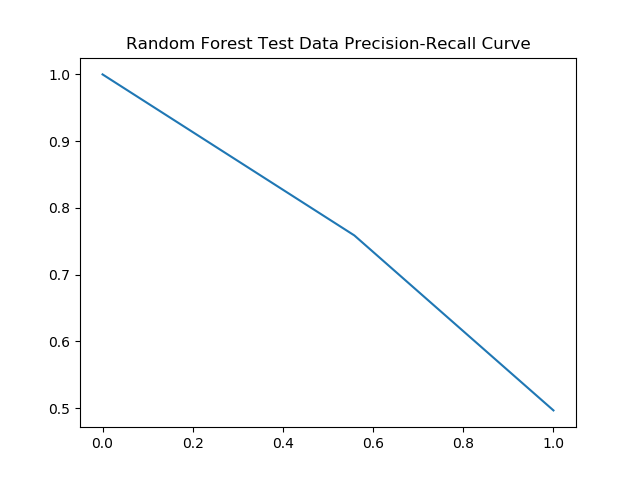
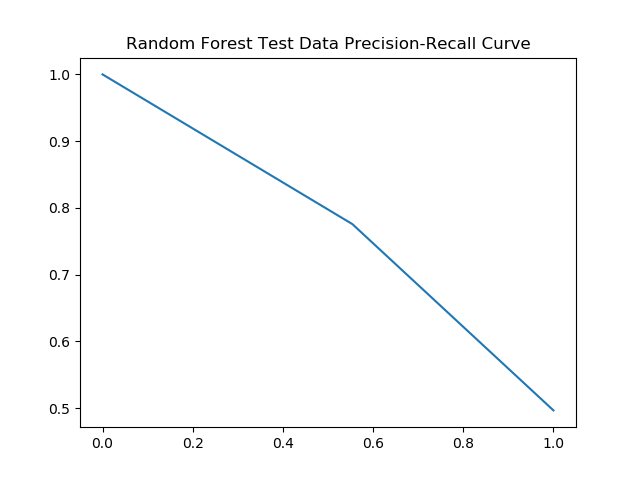
Shuffling data before training get us 67% for SVC and ~70% for Random Forest

diff --git a/collectData.py b/collectData.py
@@ -1,5 +1,6 @@
 import praw
 import json
+from random import shuffle
 
 def store_comments_for_dankchristianmemes(reddit):
     list_of_comments = []
@@ -10,6 +11,8 @@ def store_comments_for_dankchristianmemes(reddit):
         to_dict = vars(comment)
         sub_dict = {field: to_dict.get(field) for field in fields}
         list_of_comments.append(sub_dict)
+
+    shuffle(list_of_comments)
 
     with open("dcm_comments_training_data.txt", "w") as f:
         json.dump(list_of_comments[:500], f)
@@ -31,6 +34,7 @@ def store_comments_for_izlam(reddit):
         sub_dict = {field: to_dict.get(field) for field in fields}
         list_of_comments.append(sub_dict)
 
+    shuffle(list_of_comments)
 
     with open("Izlam_comments_training_data.txt", "w") as f:
         json.dump(list_of_comments[:500], f)
